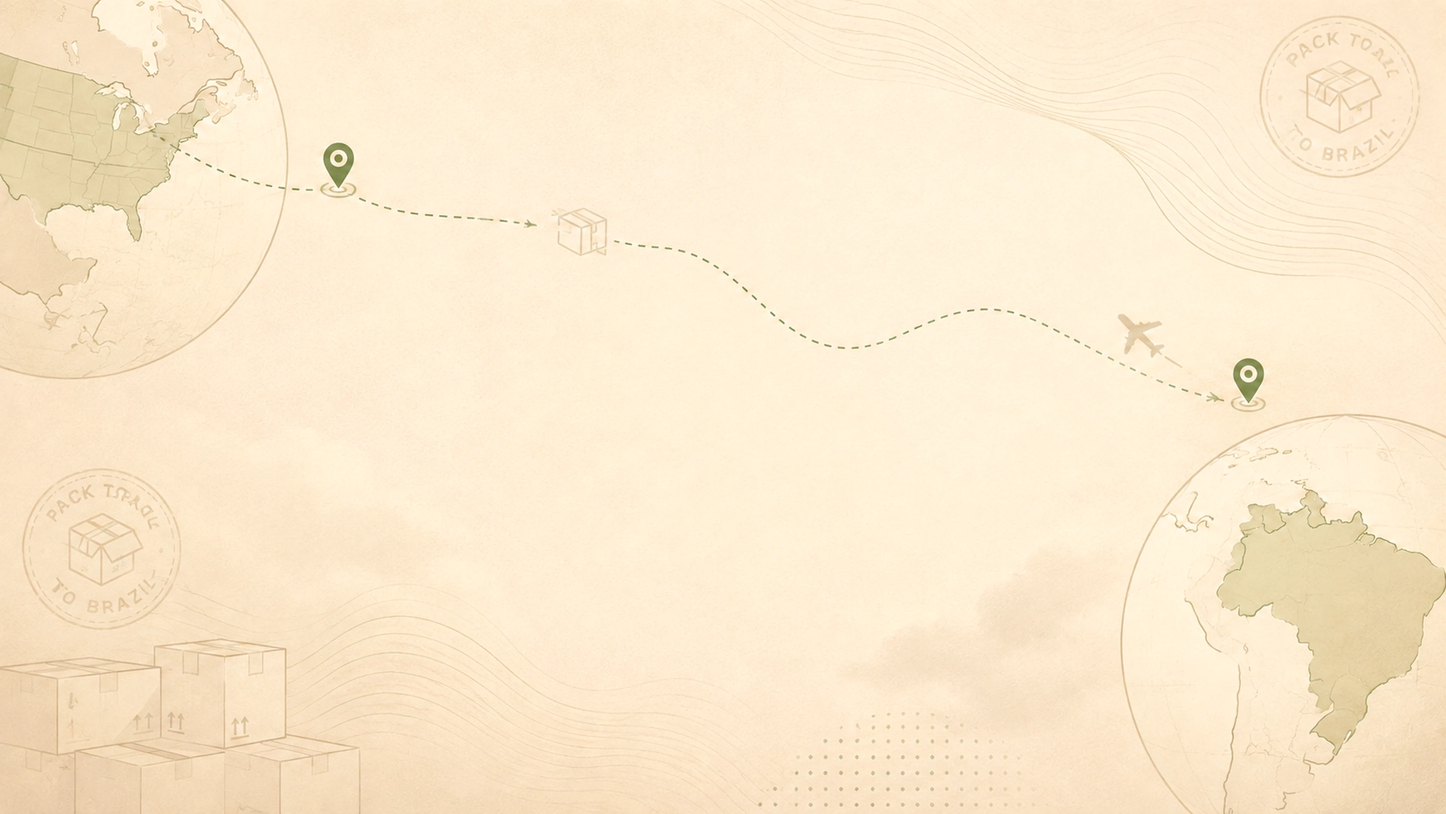
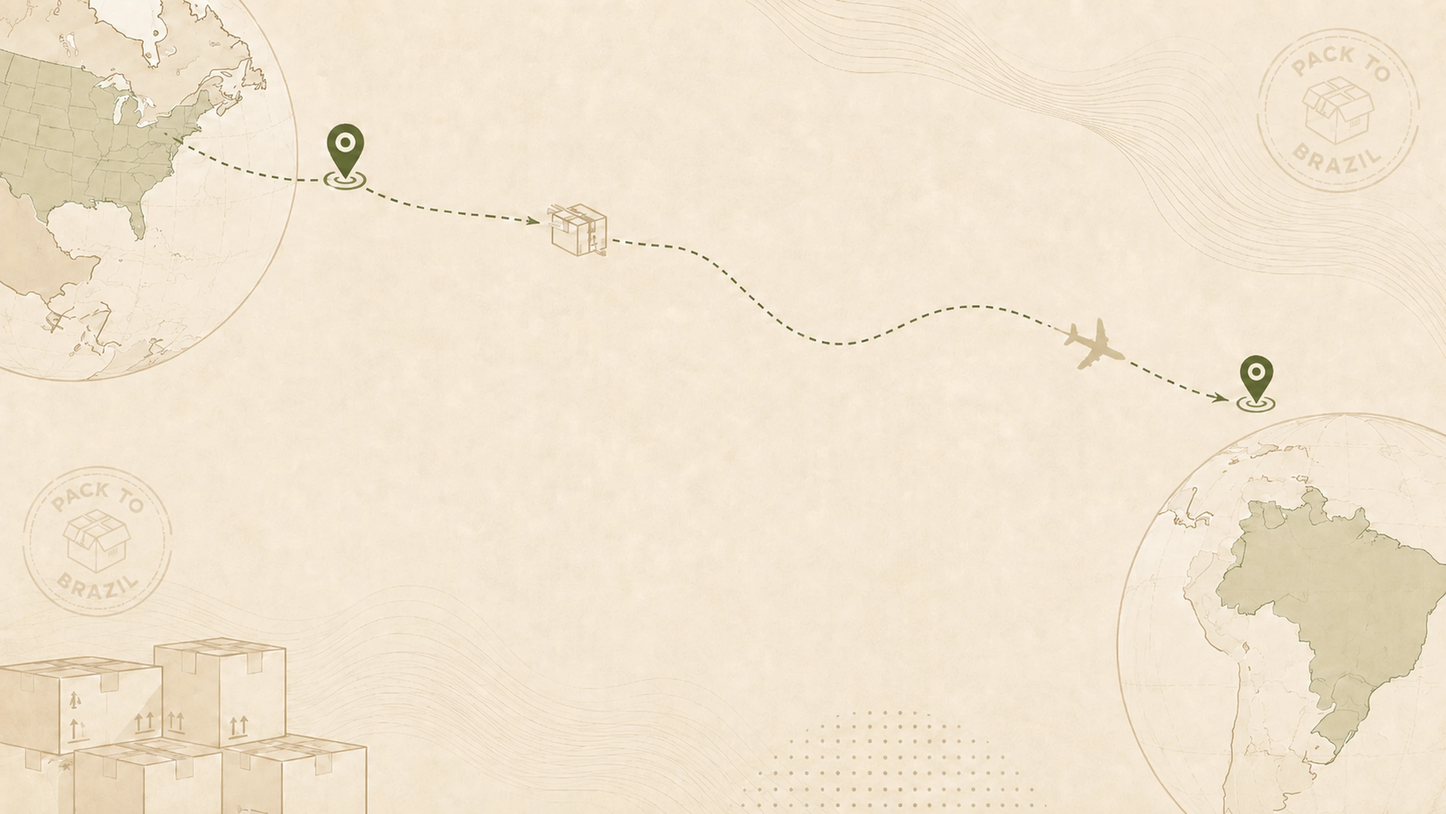
Troca a arte de fundo pela nova enviada pelo cliente
A arte nova é um desenho diferente, não uma reexportação da anterior. Vem da
marca com a faixa tonal cheia (62-255, 192 níveis), então sai o realce que
estava assado no arquivo: o `brightness(0.7) contrast(2.75)` existia para
salvar a arte antiga, que usava só 87 dos 255 níveis, e nesta crusharia os
escuros para preto puro.

Mantidos a ampliação Lanczos 2x (3344x1882, 322 KB em WebP) e o `sizes`
consciente do `object-cover`, que continuam valendo: a proporção é a mesma
1672/941 e a resolução de origem também.

O PNG recebido vai para identidade/, junto das outras artes de origem;
public/ fica só com o derivado que é servido.

Contraste remedido no navegador com a arte nova: AA em toda a página nos dois
temas, mínimo 4,63:1 no claro. A única leitura abaixo de 4,5 é o canto da
caixa do h1 raspando o topo das caixas de papelão, onde não há glifo — o mapa
de calor da caixa inteira não tem um pixel reprovado.

diff --git a/README.md b/README.md
@@ -43,7 +43,7 @@ src/content/              guia de importação (fonte do llms.txt e do JSON-LD)
 src/lib/                  contrato do tema, JSON-LD e arquivos llms.txt
 public/logo/              light.png e dark.png (arte oficial por tema)
 public/                   ícones, opengraph-image.jpg, planodefundo.webp
-identidade/               arte oficial recebida da marca (logos e PDF de origem)
+identidade/               arte oficial recebida da marca (logos, plano de fundo e PDF de origem)
 docs/referencias/         lp.png (referência desktop), mobilewireframe.png
 identidadevisual.md       paleta, frases e links de origem da marca
 ```
@@ -74,28 +74,24 @@ Sem JavaScript o botão some (`<noscript>`) e a página fica no claro.
 
 ### Arte de fundo
 
-`public/planodefundo.webp` — 3344×1882, 331 KB. O arquivo recebido da marca é lavado demais para aparecer sozinho: usa 87 dos 255 níveis de luminância. O par `brightness(0.7) contrast(2.75)` resolve isso — derruba a faixa até em volta do pivô do `contrast` e depois a reabre, escurecendo os traços enquanto o fundo permanece no creme da marca. Escurecer sem esse par (só `brightness`) deixaria a página encardida, e só `contrast` empurraria tudo para o branco.
+`public/planodefundo.webp` — 3344×1882, 322 KB, derivado de `identidade/planodefundo-origem.png` (1672×941).
 
-**Esse realce vem assado no arquivo, não em CSS.** Aplicado em CSS, a ordem das operações era: o navegador ampliava a imagem, a interpolação criava degraus, e o `contrast(2.75)` multiplicava esses degraus por 2,75 — era daí que vinha o serrilhado. Assado na origem em resolução nativa, a ampliação acontece depois e só suaviza. Sobra em `.background-art` apenas o ajuste de cor por tema (`saturate`, e `invert`/`hue-rotate` no escuro), que não amplifica artefato.
+A arte já vem da marca com a faixa tonal cheia (62–255, 192 níveis), então **não leva nenhum realce**: nem em CSS, nem assado no arquivo. Uma versão anterior era lavada (usava 87 dos 255 níveis) e precisava de um par `brightness(0.7) contrast(2.75)`; se um dia entrar outra arte assim, o realce vai no arquivo e não em CSS — aplicado em CSS ele multiplica por 2,75 os degraus que a ampliação do navegador cria, e é isso que serrilha. Em `.background-art` fica só o ajuste de cor por tema (`saturate`, e `invert`/`hue-rotate` no escuro), que não amplifica artefato.
 
-O `sizes` do componente também não é `100vw`. Em tela vertical o `object-cover` escala pela **altura**, então `100vw` fazia o navegador pedir um candidato 3,8× menor que o necessário num celular. Com `(max-aspect-ratio: 1672/941) 178vh, 100vw` a largura pedida passa a ser a que cobre a altura. Medido: a ampliação no celular a 3× caiu de 3,75× para 1,35×, e num notebook Retina a imagem passou a ser **reduzida** (0,85×) em vez de ampliada.
+O `sizes` do componente não é `100vw`. Em tela vertical o `object-cover` escala pela **altura**, então `100vw` fazia o navegador pedir um candidato 3,8× menor que o necessário num celular. Com `(max-aspect-ratio: 1672/941) 178vh, 100vw` a largura pedida passa a ser a que cobre a altura: no celular a 3× a ampliação cai de 3,75× para 1,35×, e num notebook Retina a imagem passa a ser reduzida (0,85×) em vez de ampliada.
 
 Para regerar a partir de um novo arquivo da marca:
 
 ```python
-import numpy as np
 from PIL import Image
-src = Image.open('origem.png').convert('RGB')
-# matemática exata do filtro CSS: sRGB, pivô 0.5 (a do PIL pivota na média)
-a = np.clip(np.asarray(src)/255 * 0.7 * 2.75 + (0.5 - 2.75*0.5), 0, 1)
-base = Image.fromarray((a*255).round().astype(np.uint8))
-base.resize((src.width*2, src.height*2), Image.LANCZOS).save(
+src = Image.open('identidade/planodefundo-origem.png').convert('RGB')
+src.resize((src.width*2, src.height*2), Image.LANCZOS).save(
     'public/planodefundo.webp', quality=90, method=6)
 ```
 
-A ampliação é Lanczos 2× e vem **depois** do realce — nessa ordem a interpolação preenche os buracos que o `contrast` abre entre os níveis, em vez de amplificá-los.
+A ampliação Lanczos 2× não inventa detalhe, mas evita que o navegador amplie 2,7× em tempo real com um filtro pior. Se a arte trocar de proporção, ajuste o `1672/941` no `sizes` de `BackgroundArt.tsx`.
 
-O véu por cima (`BackgroundArt.tsx`) segura o contraste do texto; o rodapé, que tem a menor tipografia da tela, ganha ainda uma faixa `bg-surface/80` própria.
+> Ao trocar a arte mantendo o mesmo nome de arquivo, apague `.next/dev/cache/images` — o otimizador do `next dev` guarda a saída por URL e continua servindo a imagem antiga. Em produção não acontece: cada build parte do zero.
 
 ### Contraste
 
